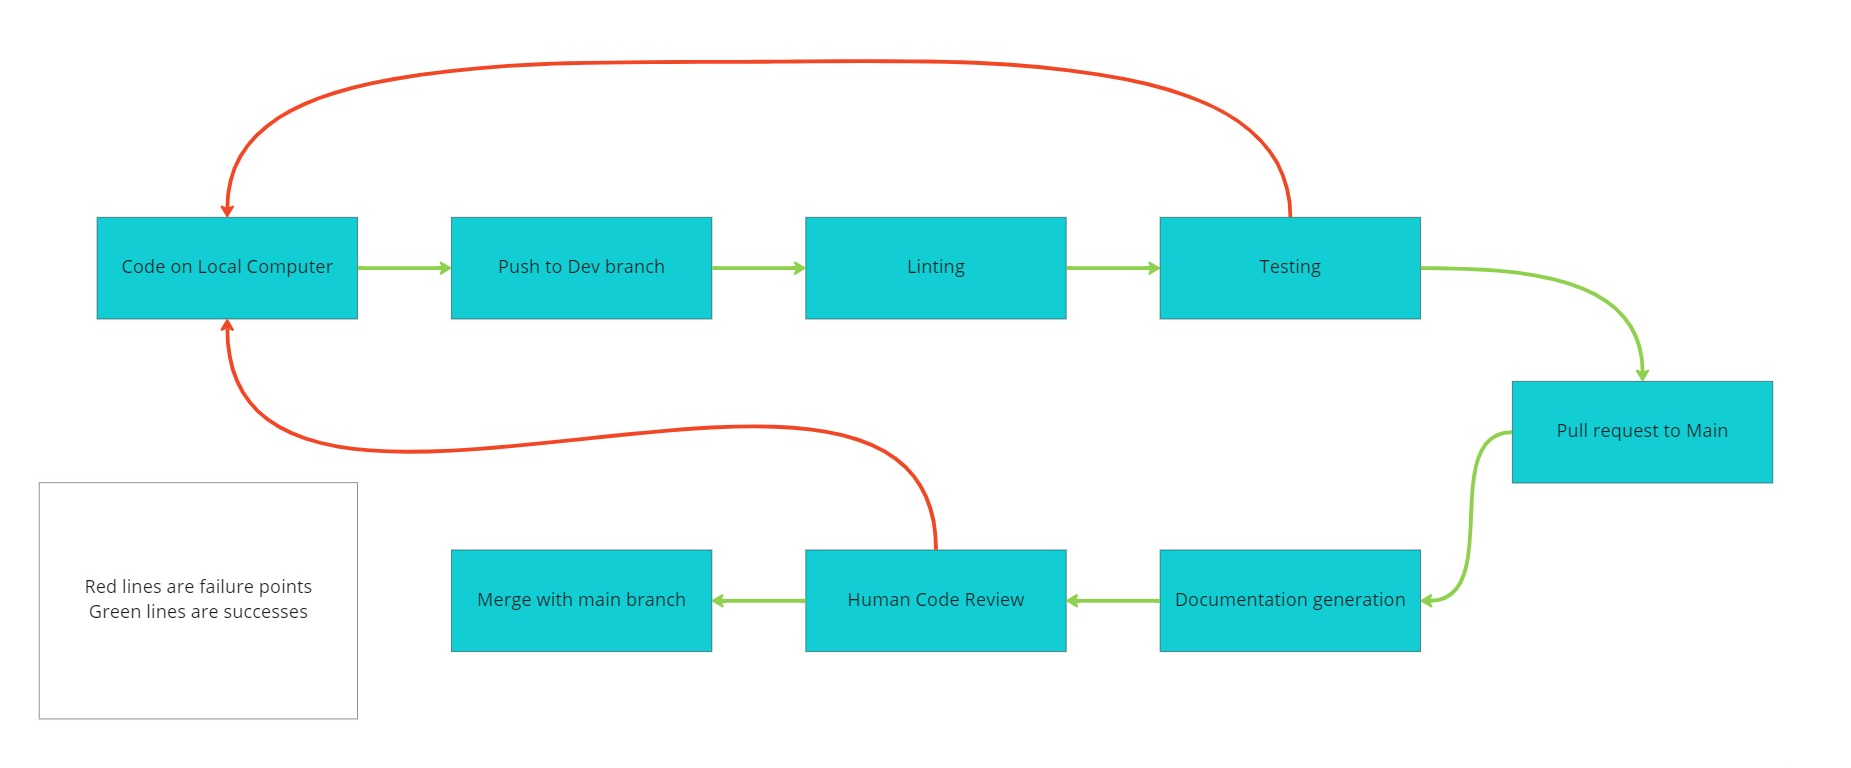
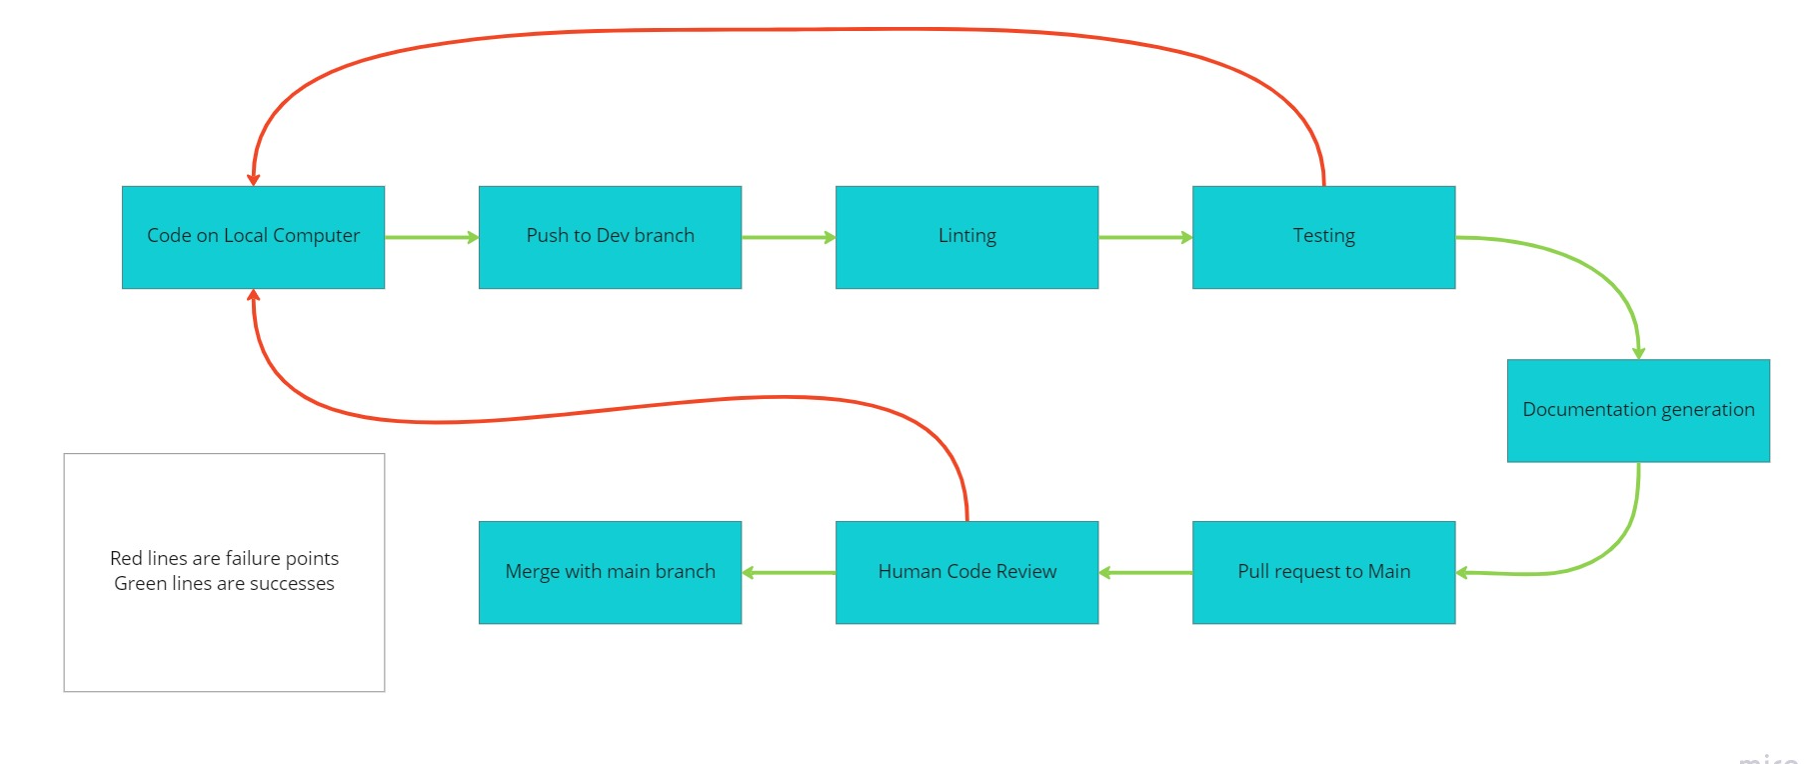
Added information for phase1 of the CI pipeline

diff --git a/admin/cipipeline/phase1.md b/admin/cipipeline/phase1.md
@@ -1,0 +1,31 @@
+CI Pipeline Phase 1 plan
+![plan](./phase1.png)
+
+# In progress
+
+## Linting:
+The first step of the pipeline is simple linting.
+We use HTMLHint to lint the html files.
+StyleLint is used to lint and automatically fix css files.
+We use semistandard to automatically fix the javascript files.
+All of these are functional currently, and occur whenever the dev branch is changed.
+Future developments could involve the development of config files to control what exactly we wish for our code to look like.
+This has been tabled for now as that is work that does not really affect the result of the project.
+
+## Documentation:
+This one is simple, we use JSDocs to go through all of the files in /source/javascript and output the resulting html files into the /docs/ folder.
+Future developments could involve the use of templates to customize our documentation.
+
+# Planned
+
+## Testing
+Testing using jest should be as simple as adding one line to just run all tests in the repo.
+The problem is that it does not appear that any tests have been written, so as soon as those are figured out running tests should be easy.
+
+## Human Code Review
+Human code review is not mandated at this point, but is highly recommended for when code is pushed to the repo.
+Again, the problem lies in the fact that the dev branch has not been updated in weeks, and there is no way to review code on people's local machines.
+
+# Future phases
+
+Going beyond what we have now, having the CD part of the pipeline to actually deploy changes to a website would be important, but for now we do not have any deployment so it is not a priority.
